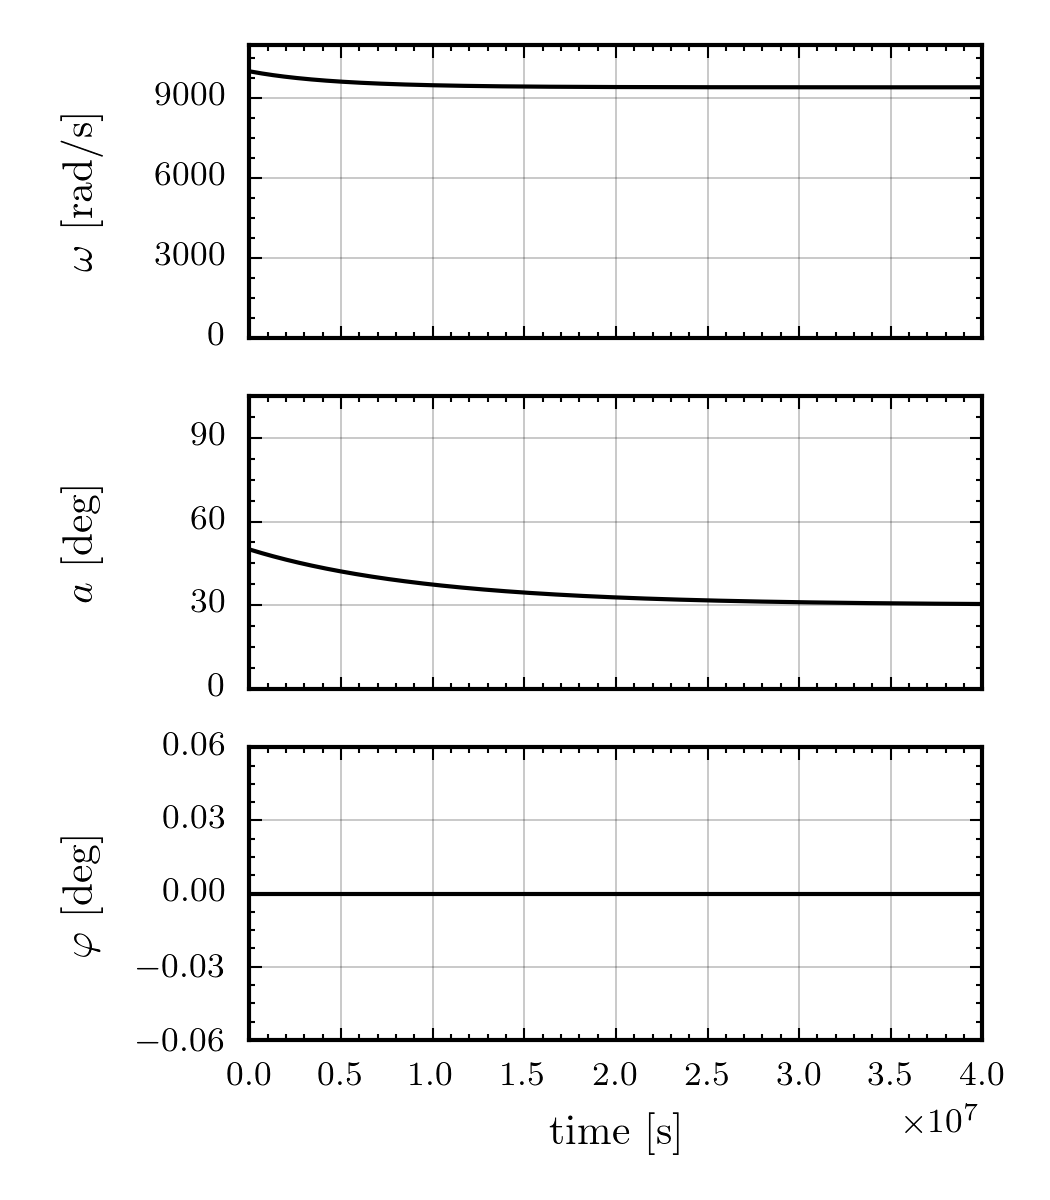
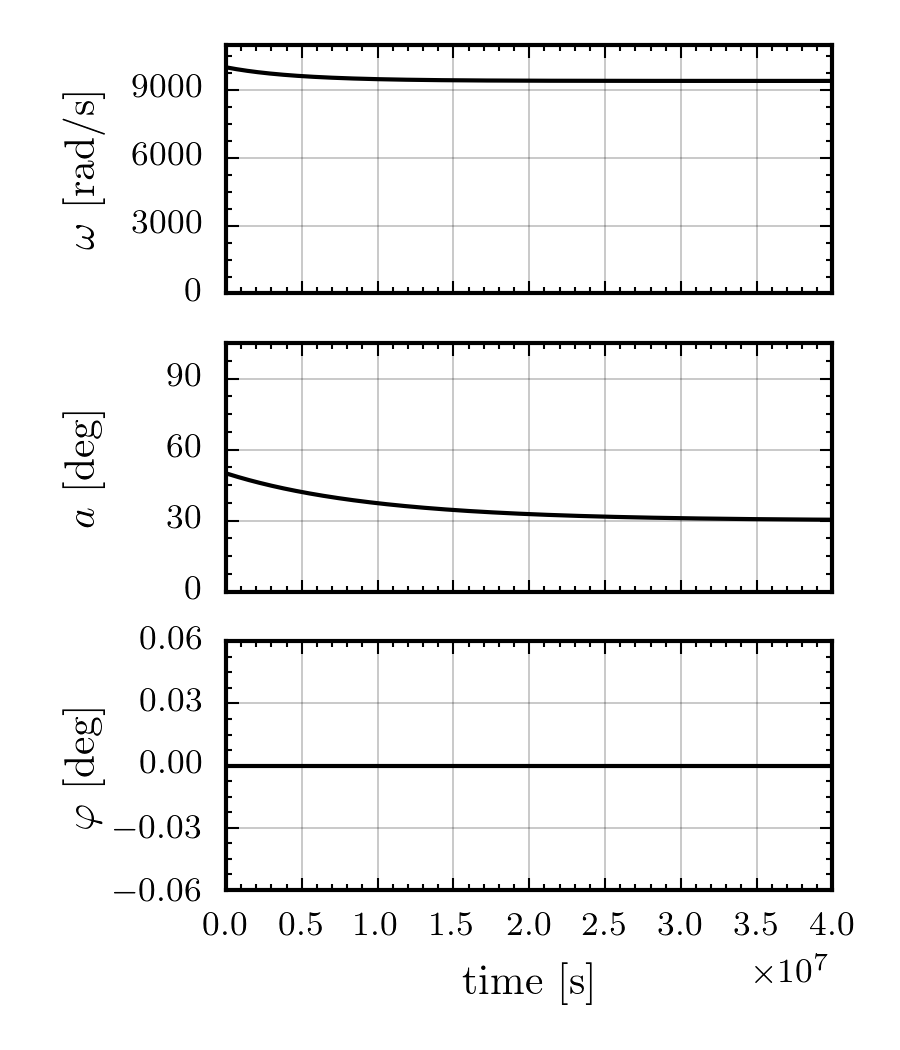
Corrections of C3 up to 3.4
1) Updates figures and tables following improvements in simulation code
2) Fixes errors in timescales

diff --git a/rotating_frame/rotating_frame.tex b/rotating_frame/rotating_frame.tex
@@ -160,7 +160,7 @@ the projection of the vector onto the $\x-\y$ plane and the $\x$ axis.
 \centering
 \begin{tabular}{|l|c|c|c|c|} \hline
  \multicolumn{2}{|c|}{} & Magnitude & Polar angle & Azimuthal angle \\ \hline
-Spin-vector  & $\boldsymbol{\Omega}$ & $\omega$ & $a$ & $\phi$ \\ \hline
+Spin-vector  & $\boldsymbol{\Omega}$ & $\omega$ & $a$ & $\varphi$ \\ \hline
 Magnetic dipole &  $\boldsymbol{m}$ & $m$ & $\chi$ & 0 \\ \hline
 \end{tabular}
 \caption{Spherical coordinates of the spin-vector and magnetic dipole.}
@@ -173,7 +173,7 @@ Magnetic dipole &  $\boldsymbol{m}$ & $m$ & $\chi$ & 0 \\ \hline
 \caption{A sketch of the  $\x-\z$ plane,  the magnetic dipole lies solely in
 this plane such that its azimuthal component is always zero.  Only the
 projection into this plane of the spin-vector is shown. In general it has an
-azimuthal component given by $\phi$.}
+azimuthal component given by $\varphi$.}
 	\label{fig: sketch01}
 \end{figure}
 
@@ -214,8 +214,8 @@ initially at $a=50^{\circ}$ and $\epsA=5\times10^{-11}$. Evolving the model
 numerically, we plot the spherical coordinates of the spin-vector in Figure~\ref{fig:
 neutron star spherical}. This shows a brief spin-down which halts once the spin-vector
 aligns with the magnetic dipole $a \rightarrow \chi=30^{\circ}$.  The azimuthal
-angle $\phi$ does not vary; this is expected since precession, a monotonic
-increase in $\phi$, does not occur for spherical bodies. This result agrees
+angle $\varphi$ does not vary; this is expected since precession, a monotonic
+increase in $\varphi$, does not occur for spherical bodies. This result agrees
 with the analytic calculations: the alignment occurs on a few times the
 spin-down time scale $\tauS = 9\times 10^{6}$~s.
 \begin{figure}[ht]
@@ -264,12 +264,13 @@ Pulsar C & $ {1.0}\times 10^{-15} $ & $ {5.0}\times 10^{-11} $ & $ {1.3}\times 1
 \end{tabular}
 \caption{Table of relevant values for the selected points. In calculating the
     magnetic fields and timescales, we have used a canonical value of
-    $R=1\times10^{6}$~cm for the radius and the initial value
-    of the spin frequency, $\omega_{0} = 1\times10^{4}$ rads/s.}
+    $R=1\times10^{6}$~cm for the radius, the initial value
+    of the spin frequency, $\omega_{0} = 1\times10^{4}$ rads/s and the initial
+    value of $a_0=50^{\circ}$.}
 \label{tab: A B C params}
 \end{table}
 
-The phase space of solutions is plotted in figure~\ref{fig: phase space no
+The phase space of solutions is plotted in Figure~\ref{fig: phase space no
 anom}, parameterised by the elastic deformation $\epsI$ and the surface
 magnetic field
 \begin{equation}
@@ -299,12 +300,12 @@ value; these correspond to either an oblate or prolate mass distribution.  In
 the following work, we use only positive values of $\epsI$. It will be noted
 when this is important, but otherwise solutions are invariant to the sign of
 $\epsI$. Finally, we must choose the angle between the magnetic dipole and the
-elastic deformations $\chi$, we choose two values ($30^\circ$ and $75^\circ$)
+elastic deformations $\chi$. We choose two values ($30^\circ$ and $75^\circ$)
 to demonstrate important cases discussed in the next section. Initial
 conditions are thought to have some bearing on the solutions
 \citep[see][]{Melatos2000}. In the current work, we will start with the
 spin-vector having an inclination angle of $a_0=50^{\circ}$ and azimuth of
-$\phi=0^{\circ}$.
+$\varphi=0^{\circ}$.
 
 
 \subsection{Neutron star A in region \texorpdfstring{$\tauS\gg \tauP$}{}}
@@ -326,19 +327,19 @@ either grow or decay on the spin-down timescale depending on whether $\chi$ was
 greater or less than a critical value~$\chi_{\textrm{cr}} \approx 55^{\circ}$.
 
 We first present results for all the spherical coordinates during the spin-down
-in figure~\ref{fig: neutron star A_NA}. For the angle $\chi$, we use two values,
+in Figure~\ref{fig: neutron star A_NA}. For the angle $\chi$, we use two values,
 $30^{\circ}$ and $75^{\circ}$, and find that $a$ tends to either $0$ or $\pi/2$
-on the spin-down timescale in agreement with \citet{Goldreich1970}.
+on the spin-down timescale, in agreement with \citet{Goldreich1970}.
 During this alignment, the spin magnitude decays
-and $\phi$ monotonically increases corresponding to the spin-vector precessing
+and $\varphi$ monotonically increases corresponding to the spin-vector precessing
 about the $\z$ axis.
 \begin{figure}[ht]
 \centering
 \begin{tabular}{cc}
-	\subfloat[$\chi=30^{\circ}<\chi_{\textrm{cr}}$]{\includegraphics[width=0.495\textwidth]
-             {{Spherical_Plot_no_anom_chi_30.0_epsI_1.0e-9_epsA_5.0e-11_omega0_1.0e4_eta_1.0e-4}.png}} &
-    \subfloat[$\chi=75^{\circ}>\chi_{\textrm{cr}}$]{\includegraphics[width=0.495\textwidth]
-             {{Spherical_Plot_no_anom_chi_75.0_epsI_1.0e-9_epsA_5.0e-11_omega0_1.0e4_eta_1.0e-4}.png}}
+	\subfloat[$\chi=30^{\circ}<\chi_{\textrm{cr}}$]{\includegraphics[width=0.45\textwidth]
+             {{Spherical_Plot_one-component-model_eta_0.00e+00_chi0_3.0000000000e+01_omega0_1.00e+04_epsI3_1.00e-09_epsA_5.00e-11_a0_5.0000000000e+01_T_1.00e+10_epsI1_0.00e+00_AnomTorque_0}.png}} & 
+    \subfloat[$\chi=75^{\circ}>\chi_{\textrm{cr}}$]{\includegraphics[width=0.45\textwidth]
+             {{Spherical_Plot_one-component-model_eta_0.00e+00_chi0_7.5000000000e+01_omega0_1.00e+04_epsI3_1.00e-09_epsA_5.00e-11_a0_5.0000000000e+01_T_1.00e+10_epsI1_0.00e+00_AnomTorque_0}.png}}
 \end{tabular}
 \caption{Plot of the spherical coordinates of $\boldsymbol{\omega}$ for neutron star
 A. The two choices of $\chi$ allow us to confirm Goldreich's dependence of the
@@ -352,26 +353,28 @@ goldreich_averaged_eqns} and the exact solution without averaging.
 \begin{figure}[ht]
 \centering
 \begin{tabular}{cc}
-    \subfloat[$\chi=30^{\circ}<\chi_{\textrm{cr}}$]{\includegraphics[width=0.495\textwidth]
+    \subfloat[$\chi=30^{\circ}<\chi_{\textrm{cr}}$]{\includegraphics[width=0.45\textwidth]
              {{Plot_a_averaged_and_exact_chi_30}.png}} &
-    \subfloat[$\chi=75^{\circ}>\chi_{\textrm{cr}}$]{\includegraphics[width=0.495\textwidth]
+    \subfloat[$\chi=75^{\circ}>\chi_{\textrm{cr}}$]{\includegraphics[width=0.45\textwidth]
              {{Plot_a_averaged_and_exact_chi_75}.png}}
 \end{tabular}
-\caption{Plot of the angle $a$ for both the exact solution of \eqref{eqn: eom}
-and the solution to the averaged equations \eqref{eqn: goldreich_averaged_eqns}.}
+\caption{Plot of the angle $a$ for both the numerical solution of Eqn.~\eqref{eqn: eom}
+and the solution to the averaged equation given in Eqn.~\eqref{eqn: goldreich_averaged_eqns}.}
 \label{fig: neutron star A_NA comparison}
 \end{figure}
 This shows that, while both agree on the long term behaviour, the averaged
 equations do not include short term oscillations which are due to the precession.
 
+\clearpage
 \paragraph{A geometric interpretation of the critical value $\chi_\textrm{cr}$}\mbox{}\\
 The significance of the critical value $\chi_\textrm{cr} \sim 55^{\circ}$
 has not been discussed in the literature. We will now develop a novel
-geometric argument which provides a way to interpret this value as a natural
+geometric argument, based on the intuitive ideas of \citet{Landau1969},
+which provides a way to interpret this value as a natural
 consequence of the conservation of energy and angular momentum.
 
-For a biaxial mass distribution as described above, the conservation of energy
-requires that
+For a biaxial mass distribution as described above, over short timescales compared
+to the spin-down, the conservation of energy requires that
 \begin{eqnarray}
 1 & = & \frac{J_{x}^{2}}{2I_{xx}E}+\frac{J_{y}^{2}}{2I_{yy}E}+\frac{J_{z}^{2}}{2I_{zz}E}
 =\frac{J_{x}^{2}}{2I_{0}E}+\frac{J_{y}^{2}}{2I_{0}E}+\frac{J_{z}^{2}}{2I_{0}(1+\epsI)E},
@@ -390,7 +393,7 @@ describes a biaxial ellipsoid with semi-axes given by $\sqrt{2I_{0}E}$,
 $\sqrt{2I_{0}E}$ and $\sqrt{2I_{0}(1+\epsI)E}$ centred on the origin,
 while Eqn.~\eqref{eqn: conservation of momentum biaxial} describes a sphere of
 radius $J$ also centred on the origin. The ellipsoid is \emph{oblate} if $\epsI
-> $ while it is \emph{prolate} if $\epsI < 0$. To keep the following discussion
+> 0$ while it is \emph{prolate} if $\epsI < 0$. To keep the following discussion
 simple, we will assume that $\epsI > 0$ and then we will discuss this choice at
 the end of this section.
 
@@ -413,10 +416,10 @@ equations and therefore the set of all physical solutions.
 \begin{figure}[ht]
 \centering
 \includegraphics[trim = 50mm 50mm 50mm 20mm, clip=true ,scale=0.8]{Ellipsoid_Sphere_Biaxial}
-\caption{Intersection of the sphere and ellipsoid defined in Eqn.~\eqref{eqn:
-conservation of momentum biaxial} and Eqn.~\eqref{eqn: conservation of energy
+\caption{Intersections of the ellipsoid and sphere defined in Eqn.~\eqref{eqn:
+conservation of energy biaxial} and Eqn.~\eqref{eqn: conservation of momentum
 biaxial} respectively for three different values of $M$ at
-fixed $E$. The sphere's of radius $M$ are not visible, only the blue line shows
+fixed $E$. The spheres of radius $M$ are not visible, only the blue line shows
 where they would intersect the fixed ellipsoid.}
 \label{fig: plot sphere ellipse biaxial}
 \end{figure}
@@ -426,7 +429,7 @@ of our biaxial star acted on by the spin-down torque are fixed. As we have seen
 above, in order to satisfy the conservation equations this means that the
 angular momentum vector $J_i$ has a class of possible solution consisting of a
 ring about the momentum-space $\z$.  Since $J_{i}=I_{ij}\omega^{j}$, the star
-is biaxial, and moment of inertia tensor is static, solutions for the spin-vector $\omega^j$
+is biaxial, and moment of inertia tensor is static. Solutions for the spin-vector $\omega^j$
 must also exist as points on a related circle. This related circle is exactly
 the precession of $\spin$ about the $\z$ axis.
 
@@ -451,14 +454,14 @@ which are parameterised by the sign of $\dot{A}$:
     the intersection circles will `close up' around the $\z$ axis. This
     agrees with the solution for $\chi=30^{\circ}$ given in
     figure~\ref{fig: neutron star A_NA comparison}(a). The angle between
-    $\boldsymbol{\omega}$ and the $\z$ axis tends to zero while $\phi$
+    $\boldsymbol{\omega}$ and the $\z$ axis tends to zero while $\varphi$
     monotonically increases. This describes the spin-vectors following a circle
     about the $\z$ axis, which gradually decreases in radius.
 \item $\dot{A}<0$ The sphere shrinks with respect to the ellipsoid. In this
     case the intersection circles will increase in radius until $J\rightarrow
     \sqrt{2EI_{0}}$. This describes exactly the solution in
-    figure~\ref{fig: neutron star A_NA comparison}(b): that is $a\rightarrow
-    90^{\circ}$ while $\phi$ monotonically increases.
+    Figure~\ref{fig: neutron star A_NA comparison}(b): that is $a\rightarrow
+    90^{\circ}$ while $\varphi$ monotonically increases.
 \end{enumerate}
 
 The sign of $\dot{A}$ tells us about the long-term evolution of the system. To
@@ -469,7 +472,7 @@ determine it, we begin by differentiating Eqn.~\eqref{eqn: A}
 \end{equation}
 simplifying and writing in index notation such that $J^{2}=J^iJ_i$, we have that
 \begin{equation}
-\dot{A}=\frac{1}{E^{2}}\left(2J^{i}\dot{J}_{i}E-\dot{E}J^{i}J_{i}\right).
+\dot{A}=\frac{1}{2E^{2}I_0}\left(2J^{i}\dot{J}_{i}E-\dot{E}J^{i}J_{i}\right).
 \end{equation}
 Now the energy is purely kinetic such that
 $E=\frac{1}{2}I_{ij}\omega^{i}\omega^{j}$, and therefore $\dot{E}=T^{i}\omega_{i}$.
@@ -512,14 +515,14 @@ This yields
 \begin{align}
 \dot{A}E^{2} = & I_{0}^{2}\epsI\omega^{3}
     \left(\frac{2R}{3c}\epsA\omega^{3}\right)
-    \cos a \left([\sin \chi \cos \chi \sin a \cos \phi
+    \cos a \left([\sin \chi \cos \chi \sin a \cos \varphi
                  - \sin^{2}\chi \cos a]\sin^{2} a \right. \nonumber \\
-& \left.- \cos a ([\sin \chi \cos \chi \sin a \cos \phi
-                   - \sin^{2}\chi \cos a]\cos \phi \sin a
-                   - \sin^{2}a \sin^{2}\phi)\right).
+& \left.- \cos a ([\sin \chi \cos \chi \sin a \cos \varphi
+                   - \sin^{2}\chi \cos a]\cos \varphi \sin a
+                   - \sin^{2}a \sin^{2}\varphi)\right).
 \end{align}
 
-Now we work in the limit $\tau_P \ll \tau_S$ where $\phi$ varies on the
+Now we work in the limit $\tau_P \ll \tau_S$ where $\varphi$ varies on the
 precession timescale, which is much faster than the evolution in either $a$ or $\omega$.
 Therefore, we can average over a free precession period and drop the constant
 coefficients:
@@ -570,13 +573,13 @@ this region is the spherical star
 ($\epsI\rightarrow0$) discussed in section~\ref{sec: spherical}; as such
 we should expect the results to be similar. Solving
 the equations of motion for neutron star C, the spherical coordinates of the spin axis
-are given in figure~\ref{fig: neutron star C_NA}. Both choices of $\chi$ yield a
+are given in Figure~\ref{fig: neutron star C_NA}. Both choices of $\chi$ yield a
 similar result; the polar angle $a$ tends to $\chi$ on the spin-down timescale
 as anticipated by the likeness to the spherical star. In contrast, the azimuthal
-angle $\phi$ appears to begin increasing monotonically before decreasing to a
+angle $\varphi$ appears to begin increasing monotonically before decreasing to a
 constant value. It is thought that this is due to the small but non-vanishing
 magnitude of $\epsI$. In the perfectly spherical limit, we observe no
-such increase in $\phi$. Therefore, the small
+such increase in $\varphi$. Therefore, the small
 deformation offsets the steady state solution of the spin axis from the
 magnetic dipole.
 
@@ -594,8 +597,12 @@ value.
 \begin{figure}[ht]
 \centering
 \begin{tabular}{cc}
-    \subfloat[$\chi=30^{\circ}<\chi_{\textrm{cr}}$]{\includegraphics[width=0.495\textwidth]{{Spherical_Plot_no_anom_chi_30.0_epsI_1.0e-15_epsA_5.0e-11_omega0_1.0e4_t1_1e8}.png}}&
-    \subfloat[$\chi=75^{\circ}>\chi_{\textrm{cr}}$]{\includegraphics[width=0.495\textwidth]{{Spherical_Plot_no_anom_chi_75.0_epsI_1.0e-15_epsA_5.0e-11_omega0_1.0e4_t1_1e8}.png}}
+    \subfloat[$\chi=30^{\circ}<\chi_{\textrm{cr}}$]{\includegraphics[width=0.45\textwidth]
+             {{Spherical_Plot_one-component-model_eta_0.00e+00_chi0_3.0000000000e+01_omega0_1.00e+04_epsI3_1.00e-15_epsA_5.00e-11_a0_5.0000000000e+01_T_1.00e+08_n_1000_epsI1_0.00e+00_AnomTorque_0}.png}} &
+% {{Spherical_Plot_no_anom_chi_30.0_epsI_1.0e-15_epsA_5.0e-11_omega0_1.0e4_t1_1e8}.png}}&
+    \subfloat[$\chi=75^{\circ}>\chi_{\textrm{cr}}$]{\includegraphics[width=0.45\textwidth]
+             {{Spherical_Plot_one-component-model_eta_0.00e+00_chi0_7.5000000000e+01_omega0_1.00e+04_epsI3_1.00e-15_epsA_5.00e-11_a0_5.0000000000e+01_T_1.00e+08_n_1000_epsI1_0.00e+00_AnomTorque_0}.png}}
+% {{Spherical_Plot_no_anom_chi_75.0_epsI_1.0e-15_epsA_5.0e-11_omega0_1.0e4_t1_1e8}.png}}
 \end{tabular}
 \caption{Plot of the spherical coordinates of $\boldsymbol{\omega}$ for neutron star C. }
 \label{fig: neutron star C_NA}
@@ -807,8 +814,8 @@ torque.
 \begin{figure}
 \centering
 \begin{tabular}{cc}
-    \subfloat[$\chi=30^{\circ}<\chi_{\textrm{cr}}$]{\includegraphics[width=0.495\textwidth]{{Spherical_Plot_Transform_chi_30.0_epsI_1.0e-9_epsA_5.0e-11_omega0_1.0e4_eta_1.0e-4}.png}} &
-    \subfloat[$\chi=70^{\circ}>\chi_{\textrm{cr}}$]{\includegraphics[width=0.495\textwidth]{{Spherical_Plot_Transform_chi_75.0_epsI_1.0e-9_epsA_5.0e-11_omega0_1.0e4_eta_1.0e-4}.png}}
+    \subfloat[$\chi=30^{\circ}<\chi_{\textrm{cr}}$]{\includegraphics[width=0.45\textwidth]{{Spherical_Plot_Transform_chi_30.0_epsI_1.0e-9_epsA_5.0e-11_omega0_1.0e4_eta_1.0e-4}.png}} &
+    \subfloat[$\chi=70^{\circ}>\chi_{\textrm{cr}}$]{\includegraphics[width=0.45\textwidth]{{Spherical_Plot_Transform_chi_75.0_epsI_1.0e-9_epsA_5.0e-11_omega0_1.0e4_eta_1.0e-4}.png}}
 \end{tabular}
 \caption{Plot of the spherical coordinates of the spin-vector during the
 spin-down of neutron star A.}
@@ -865,7 +872,7 @@ intersections as drawn in figure~\ref{fig: sphere ellipsoid}.
              {\includegraphics[trim=70mm 50mm 50mm 20mm, clip=true ,width=0.333\textwidth]
              {{Ellipsoid_Sphere_high}.pdf}}
 \end{tabular}
-\caption{Intersection of the sphere and ellipsoid defined in Eqn.~\eqref{eqn:
+\caption{Intersections of the ellipsoid and sphere defined in Eqn.~\eqref{eqn:
 conservation of energy triaxial} and Eqn.~\eqref{eqn: conservation of mass
 triaxial} respectively for three different values of $M$ at fixed $E$.}
 \label{fig: sphere ellipsoid}
@@ -902,7 +909,7 @@ When this happens, we will observe a change in the axis about which the solution
 precesses.
 
 Both sets of solution start with the solution precessing about the $\3$ axis
-($\phi$ monotonically increasing) corresponding to Figure~\ref{fig: sphere ellipsoid}(c).
+($\varphi$ monotonically increasing) corresponding to Figure~\ref{fig: sphere ellipsoid}(c).
 In Figure~\ref{fig: neutron star A}(b), the discontinuity is in fact exactly the point
 when the solution changes the axis of precession.
 
@@ -921,8 +928,8 @@ precesses.
 \begin{figure}
 \centering
 \begin{tabular}{cc}
-    \subfloat[]{\includegraphics[trim = 30mm 30mm 30mm 30mm, clip=true , width=0.495\textwidth]{{Angle_Space_Plot_3D_chi_75.0_epsI_1.0e-9_epsA_5.0e-11_omega0_1.0e4_eta_1.0e-4}.png}} &
-    \subfloat[]{\includegraphics[trim = 30mm 30mm 30mm 30mm, clip=true , width=0.495\textwidth]{{ThreeD_Plot_Cartesian_chi_75.0_epsI_1.0e-9_epsA_5.0e-11_omega0_1.0e4_eta_1.0e-4}.png}}
+    \subfloat[]{\includegraphics[trim = 30mm 30mm 30mm 30mm, clip=true , width=0.45\textwidth]{{Angle_Space_Plot_3D_chi_75.0_epsI_1.0e-9_epsA_5.0e-11_omega0_1.0e4_eta_1.0e-4}.png}} &
+    \subfloat[]{\includegraphics[trim = 30mm 30mm 30mm 30mm, clip=true , width=0.45\textwidth]{{ThreeD_Plot_Cartesian_chi_75.0_epsI_1.0e-9_epsA_5.0e-11_omega0_1.0e4_eta_1.0e-4}.png}}
 \end{tabular}
 \caption{Numerical solutions for neutron star A plotted on the unit sphere in the
 body frame axis. Figure~(a) shows three distinct time steps; blue, the time before the
@@ -953,7 +960,7 @@ moment of inertia tensor ($a' \rightarrow \pi /2$).  Therefore, the persistent
 precession angle found by Melatos is precisely the angle $\beta$.  The
 spin-vector has aligned with the principal axis of the effective
 moment of inertia tensor associated with the smallest eigenvalue.  Since both
-the polar angle $a'$ and azimuthal angle $\phi'$ are constant, we argue
+the polar angle $a'$ and azimuthal angle $\varphi'$ are constant, we argue
 that the angular velocity is constant and this is not persistent precession:
 the spin-vector always aligns with the effective body frame and in doing so
 the precession of the body is damped.
@@ -962,10 +969,10 @@ the precession of the body is damped.
 \centering
 \begin{tabular}{cc}
     \subfloat[In the body frame axis]
-             {\includegraphics[width=0.495\textwidth]
+             {\includegraphics[width=0.45\textwidth]
              {{Spherical_Plot_chi_75.0_epsI_4.0e-11_epsA_5.0e-11_omega0_1.0e4_t1_2.0e8}.png}} &
     \subfloat[In the effective body frame axis]
-             {\includegraphics[width=0.495\textwidth]
+             {\includegraphics[width=0.45\textwidth]
              {{Spherical_Plot_Transform_chi_75.0_epsI_4.0e-11_epsA_5.0e-11_omega0_1.0e4_t1_2.0e8}.png}}
 \end{tabular}
 \caption{Plot of the spherical coordinates of $\boldsymbol{\omega}$ for neutron star B.
@@ -988,9 +995,9 @@ torque introduces oscillations on the anomalous torque timescale.
 \begin{figure}[ht]
 \centering
 \begin{tabular}{cc}
-    \subfloat[$\chi=30^{\circ}<\chi_{\textrm{cr}}$]{\includegraphics[width=0.495\textwidth]
+    \subfloat[$\chi=30^{\circ}<\chi_{\textrm{cr}}$]{\includegraphics[width=0.45\textwidth]
              {{Spherical_Plot_Transform_chi_30.0_epsI_1.0e-15_epsA_5.0e-11_omega0_1.0e4_t1_1e8}.png}} &
-    \subfloat[$\chi=75^{\circ}>\chi_{\textrm{cr}}$]{\includegraphics[width=0.495\textwidth]
+    \subfloat[$\chi=75^{\circ}>\chi_{\textrm{cr}}$]{\includegraphics[width=0.45\textwidth]
              {{Spherical_Plot_Transform_chi_75.0_epsI_1.0e-15_epsA_5.0e-11_omega0_1.0e4_t1_1e8}.png}}
 \end{tabular}
 \caption{Plot of the spherical coordinates of $\boldsymbol{\omega}$ for neutron star
